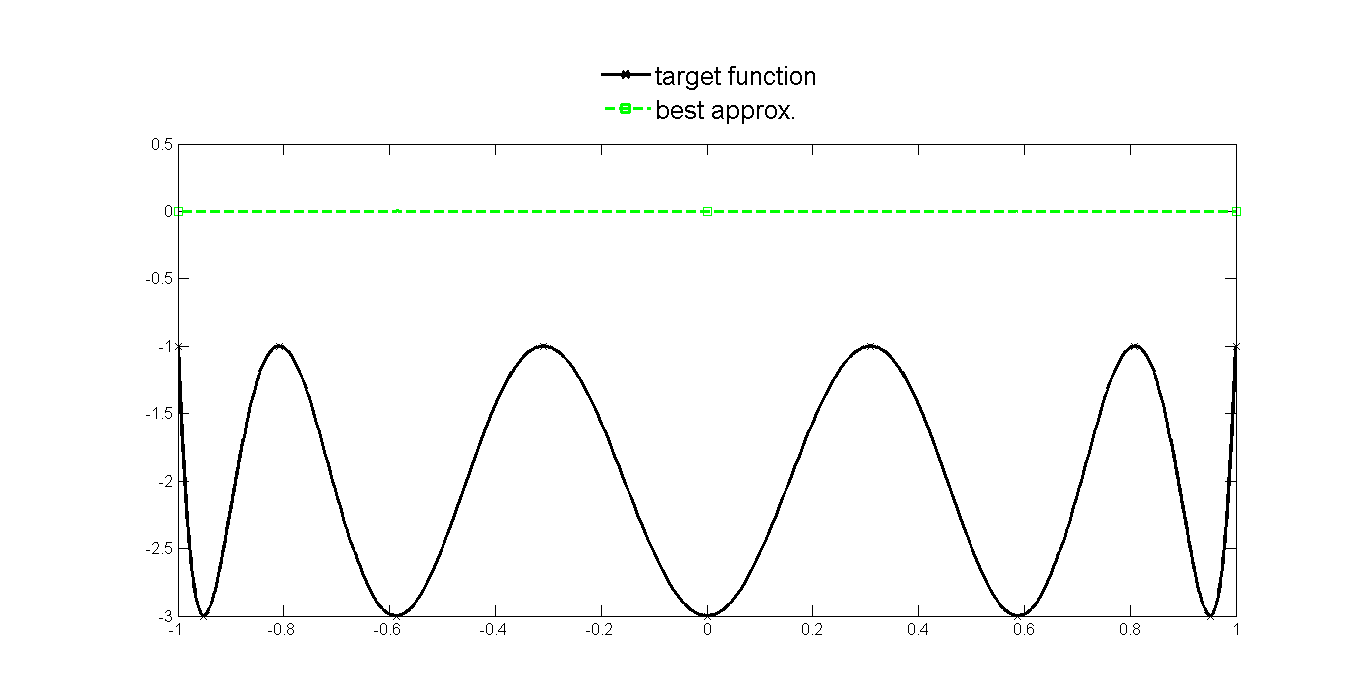
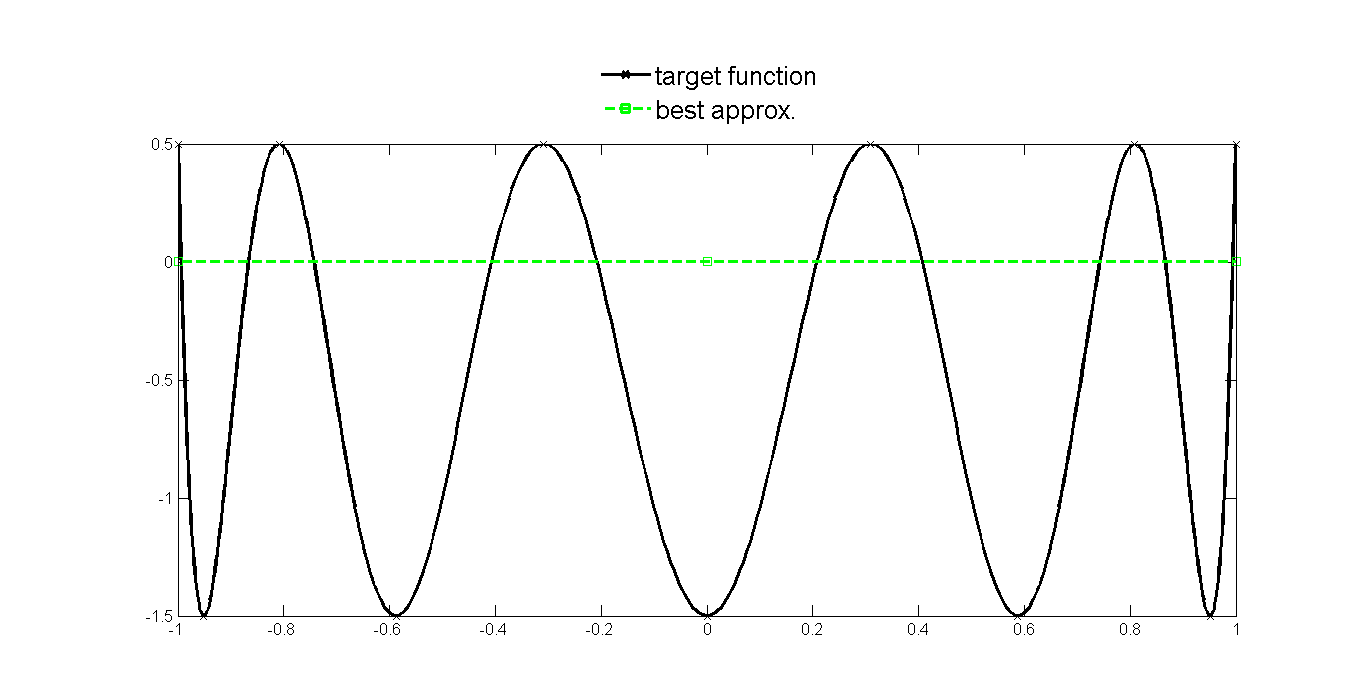
Changed the example with positive constraint

diff --git a/BascUsersGuide/BascUsersGuide.html b/BascUsersGuide/BascUsersGuide.html
@@ -913,10 +913,10 @@ set(legend(<span class="string">'target function'</span>, <span class="string">'
                 <div class="body_content_container_container">
                     <div class="content_content_box" id="examples_sign">
                         <p>
-                            <span class="exNum">13. </span>Here we approximate the function $F(x) = T_{10}(x)-2$ in the max-norm by polynomials of degree $n \le 3$  with
+                            <span class="exNum">13. </span>Here we approximate the function $F(x) = T_{10}(x)-0.5$ in the max-norm by polynomials of degree $n \le 3$  with
                             the constraint that the approximant is positive.
                         </p>
-                        <div class="code_box">n = 3; F = chebpoly(10)-2;
+                        <div class="code_box">n = 3; F = chebpoly(10)-0.5;
 [e,P] = basc(F,n,<span class="string">'positive'</span>)
 set(figure(1),POS,pos);
 plot(F,<span class="string">'x-k'</span>,P,<span class="string">'s--g'</span>,LW,lw);
